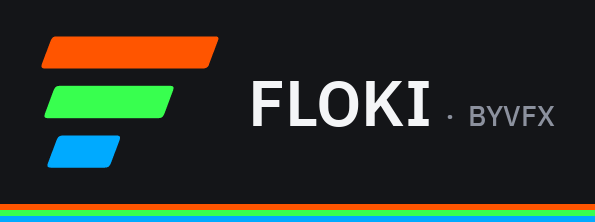
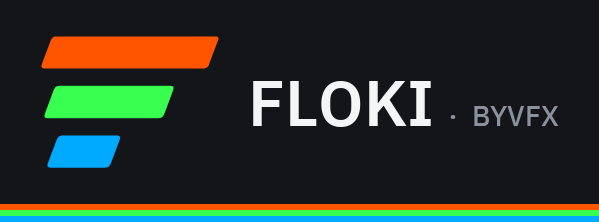
fix: enlarge the social card wordmark and segment the rule
FLOKI is 112px IBM Plex Sans SemiBold, the URL sits above a single
orange-green-blue bar, and text is drawn from the vendored faces with
Pillow's BASIC layout so a system font cannot substitute.

diff --git a/brand/scripts/generate_assets.py b/brand/scripts/generate_assets.py
@@ -264,7 +264,23 @@ def render_cropped_mark(paths: list[tuple[list[tuple], str]], height: int) -> Im
 
 
 def font(path: Path, size: int) -> ImageFont.FreeTypeFont:
-    return ImageFont.truetype(str(path), size)
+    """Open a vendored IBM Plex file.
+
+    ``Layout.BASIC`` draws only that file. Raqm (Pillow's default when it is
+    installed) will ask fontconfig for a missing glyph and can substitute a
+    system serif for the whole run.
+    """
+    if not path.is_file():
+        raise SystemExit(f"vendored font missing: {path}")
+    face = ImageFont.truetype(str(path), size, layout_engine=ImageFont.Layout.BASIC)
+    family, style = face.getname()
+    if not str(family).startswith("IBM Plex"):
+        raise SystemExit(
+            f"{path.name} opened as {family} {style}. Refusing a system fallback."
+        )
+    if face.getlength("Ag") < 1:
+        raise SystemExit(f"{path.name} has no Latin glyphs")
+    return face
 
 
 def line_box(face: ImageFont.FreeTypeFont) -> tuple[int, int]:
@@ -298,9 +314,14 @@ def draw_tracked(
     fill: tuple[int, int, int],
     tracking: float,
 ) -> float:
+    """Draw ``text`` on one baseline.
+
+    ``origin`` is the left baseline (``anchor='ls'``). Per-glyph ``lt`` alignment
+    pins a middle dot to the cap line, which reads as a superscript tick.
+    """
     x, y = origin
     for index, ch in enumerate(text):
-        draw.text((x, y), ch, font=face, fill=fill, anchor="lt")
+        draw.text((x, y), ch, font=face, fill=(*fill, 255), anchor="ls")
         x += face.getlength(ch)
         if index != len(text) - 1:
             x += tracking
@@ -320,85 +341,144 @@ def save_png(image: Image.Image, path: Path) -> None:
 
 
 def write_social(paths: list[tuple[list[tuple], str]], colors: dict[str, tuple[int, int, int]]) -> None:
+    """1280×640 card: large FLOKI, tight kicker and tagline, URL near one segmented rule.
+
+    Colors stay NEO-3 Acid Arcade. The rule is a single 7 px bar split into three
+    equal side-by-side segments, not three stacked stripes.
+    """
     width, height = 1280, 640
-    band = 8
+    rule_h = 7
     canvas = (0x14, 0x15, 0x18, 255)
     image = Image.new("RGBA", (width, height), canvas)
     draw = ImageDraw.Draw(image)
 
-    mark = render_cropped_mark(paths, 280)
-    mark_x, margin_right = 72, 64
-    text_gap = 56
+    mark = render_cropped_mark(paths, 188)
+    mark_x = 104
+    text_gap = 72
+    margin_right = 80
     text_x = mark_x + mark.width + text_gap
     text_w = width - margin_right - text_x
-    if text_w < 520:
-        raise SystemExit(f"social text column is only {text_w}px — mark is too wide")
+    if text_w < 560:
+        raise SystemExit(f"social text column is only {text_w:.0f}px")
 
-    logo_px = 96
-    while logo_px > 64:
-        logo_font = font(FONTS / "IBMPlexSans-SemiBold.ttf", logo_px)
-        if logo_font.getlength("FLOKI") <= text_w:
-            break
-        logo_px -= 2
-    else:
-        raise SystemExit("FLOKI does not fit the social card")
+    logo_font = font(FONTS / "IBMPlexSans-SemiBold.ttf", 112)
+    kicker_font = font(FONTS / "IBMPlexSans-Medium.ttf", 18)
+    body_font = font(FONTS / "IBMPlexSans-Regular.ttf", 23)
+    url_font = font(FONTS / "IBMPlexMono-Regular.ttf", 18)
 
-    sub_font = font(FONTS / "IBMPlexSans-Medium.ttf", 21)
-    body_font = font(FONTS / "IBMPlexSans-Regular.ttf", 26)
-    url_font = font(FONTS / "IBMPlexMono-Regular.ttf", 20)
-    sub = "IMAGE SEQUENCE VIEWER  ·  BYVFX"
-    sub_track = 0.8
-    if tracked_width(sub, sub_font, sub_track) > text_w:
-        raise SystemExit("social subtitle overflows")
-    body_lines = wrap_text(TAGLINE, body_font, text_w)
-    if len(body_lines) > 3:
-        raise SystemExit(f"tagline wrapped to {len(body_lines)} lines")
+    logo = "FLOKI"
+    kicker = "IMAGE SEQUENCE VIEWER  ·  BYVFX"
     url = "github.com/byvfx/floki"
+    kicker_track = 0.5
+    if logo_font.getlength(logo) > text_w:
+        raise SystemExit("FLOKI does not fit at 112 px")
+    if tracked_width(kicker, kicker_font, kicker_track) > text_w:
+        raise SystemExit("social kicker overflows")
+    # Break where the reference card breaks: the second line starts at "with".
+    first_line = "Inspect, compare, and play multi-layer image sequences"
+    body_lines = wrap_text(TAGLINE, body_font, body_font.getlength(first_line) + 2)
+    if body_lines != [first_line, "with color-accurate OCIO viewing."]:
+        raise SystemExit(f"tagline wrapped unexpectedly: {body_lines}")
+    if body_font.getlength(first_line) > text_w:
+        raise SystemExit("tagline does not fit the text column")
     if url_font.getlength(url) > text_w:
         raise SystemExit("social url overflows")
 
-    logo_a, logo_d = line_box(logo_font)
-    sub_a, sub_d = line_box(sub_font)
-    body_a, body_d = line_box(body_font)
-    url_a, url_d = line_box(url_font)
-    gap_sub, gap_body, gap_url, body_lead = 14, 26, 22, 6
-    block_h = (
-        logo_a
-        + logo_d
-        + gap_sub
-        + sub_a
-        + sub_d
-        + gap_body
-        + len(body_lines) * (body_a + body_d)
-        + (len(body_lines) - 1) * body_lead
-        + gap_url
-        + url_a
-        + url_d
-    )
-    band_top = height - band * 3
-    content_h = band_top
-    block_y = (content_h - block_h) / 2
-    mark_y = (content_h - mark.height) / 2
-    if block_y < 28 or mark_y < 28:
-        raise SystemExit("social content collides with the top edge")
-    if block_y + block_h > band_top - 20 or mark_y + mark.height > band_top - 16:
-        raise SystemExit("social content collides with the spectral rule")
+    # Baseline-anchored: the dot's center belongs in the x-height, not on the cap line.
+    dot = kicker_font.getbbox("·", anchor="ls")
+    cap = kicker_font.getbbox("H", anchor="ls")
+    dot_mid = (dot[1] + dot[3]) / 2.0
+    span = cap[3] - cap[1]
+    if span <= 0 or not (0.25 < (dot_mid - cap[1]) / span < 0.85):
+        raise SystemExit(f"middle dot is not in the x-height (dot {dot}, cap {cap})")
+
+    def ink(face: ImageFont.FreeTypeFont, sample: str) -> tuple[int, int]:
+        _left, top, _right, bottom = face.getbbox(sample, anchor="ls")
+        return top, bottom
+
+    logo_top, logo_bot = ink(logo_font, "FLOKI")
+    kick_top, kick_bot = ink(kicker_font, "IMAGE")
+    body_top, body_bot = ink(body_font, "Inspect")
+    url_top_off, _url_bot = ink(url_font, url)
+    # Ink gaps, not em-box gaps. The em box pads all-caps FLOKI with an empty
+    # descent and pushes the kicker away from the wordmark.
+    gap_kick, gap_body, body_lead = 10, 14, 6
+    logo_baseline_off = -logo_top
+    kick_baseline_off = logo_baseline_off + logo_bot + gap_kick - kick_top
+    body_baseline_off = kick_baseline_off + kick_bot + gap_body - body_top
+    body_step = (body_bot - body_top) + body_lead
+    stack_h = body_baseline_off + body_step + body_bot
+
+    rule_top = height - rule_h
+    url_baseline = rule_top - 36
+    url_top = url_baseline + url_top_off
+    region_top = 44
+    region_bottom = url_top - 40
+    if stack_h > region_bottom - region_top:
+        raise SystemExit(f"headline stack {stack_h:.0f}px does not fit above the URL")
+    stack_top = region_top + (region_bottom - region_top - stack_h) / 2
+
+    mark_y = stack_top + (stack_h - mark.height) / 2
+    if mark_x < 80 or mark_y < 36:
+        raise SystemExit("mark crowds the card edge")
+    if mark_y + mark.height > url_top - 12:
+        raise SystemExit("mark crowds the URL")
 
     image.alpha_composite(mark, (mark_x, int(round(mark_y))))
-    y = block_y
-    draw.text((text_x, y), "FLOKI", font=logo_font, fill=(0xF4, 0xF5, 0xF7, 255), anchor="lt")
-    y += logo_a + logo_d + gap_sub
-    draw_tracked(draw, (text_x, y), sub, sub_font, colors["top"], sub_track)
-    y += sub_a + sub_d + gap_body
-    for line in body_lines:
-        draw.text((text_x, y), line, font=body_font, fill=(0xD8, 0xDC, 0xE4, 255), anchor="lt")
-        y += body_a + body_d + body_lead
-    y += gap_url - body_lead
-    draw.text((text_x, y), url, font=url_font, fill=(0x8C, 0x91, 0x9E, 255), anchor="lt")
 
+    baseline = stack_top + logo_baseline_off
+    draw.text(
+        (text_x, baseline),
+        logo,
+        font=logo_font,
+        fill=(0xF4, 0xF5, 0xF7, 255),
+        anchor="ls",
+    )
+    draw_tracked(
+        draw,
+        (text_x, stack_top + kick_baseline_off),
+        kicker,
+        kicker_font,
+        colors["top"],
+        kicker_track,
+    )
+    for index, line in enumerate(body_lines):
+        draw.text(
+            (text_x, stack_top + body_baseline_off + index * body_step),
+            line,
+            font=body_font,
+            fill=(0xD8, 0xDC, 0xE4, 255),
+            anchor="ls",
+        )
+    draw.text(
+        (text_x, url_baseline),
+        url,
+        font=url_font,
+        fill=(0x8C, 0x91, 0x9E, 255),
+        anchor="ls",
+    )
+
+    cuts = [round(i * width / 3) for i in range(4)]
     for index, plane in enumerate(("top", "middle", "bottom")):
-        y0 = band_top + index * band
-        draw.rectangle((0, y0, width, y0 + band), fill=(*colors[plane], 255))
+        draw.rectangle(
+            (cuts[index], rule_top, cuts[index + 1], height),
+            fill=(*colors[plane], 255),
+        )
+
+    pixels = image.load()
+    planes = {colors["top"], colors["middle"], colors["bottom"]}
+    rule_row = [pixels[x, rule_top][:3] for x in range(width)]
+    if set(rule_row) != planes:
+        raise SystemExit(f"segmented rule colors drifted: {set(rule_row)}")
+    if (
+        rule_row[0] != colors["top"]
+        or rule_row[width // 2] != colors["middle"]
+        or rule_row[-1] != colors["bottom"]
+    ):
+        raise SystemExit("rule segments are not orange | green | blue")
+    above = {pixels[x, rule_top - 1][:3] for x in range(0, width, 4)}
+    if planes & above:
+        raise SystemExit("the rule is thicker than one bar, or a plane leaked above it")
 
     save_png(image, DOCS_IMG / "social-preview.png")
 
